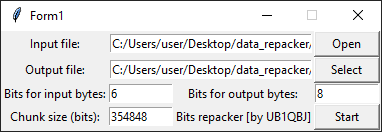
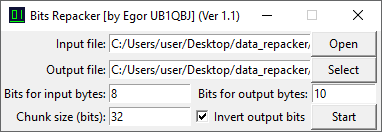
Add bits inverter

diff --git a/main.py b/main.py
@@ -6,8 +6,18 @@ input_file_name=''
 out_file_name=''
 in_lb=int()
 out_lb=int()
+invert_state=int()
+
+def byte_inverter_state():
+    global invert_state
+    if(var1.get()==1):
+        invert_state=1
+    if(var1.get()==0):
+        invert_state=0
+    return
 
 def dn_packer(input_file, out_file, in_lb, out_lb, chunk_size):
+    global invert_state
     data_stream=bitstring.ConstBitStream(input_file)
     while True:
         try:
@@ -17,10 +27,16 @@ def dn_packer(input_file, out_file, in_lb, out_lb, chunk_size):
             break
         chunks = [data[i:i+int(in_lb)] for i in range(0, len(data), int(in_lb))]
         chunks = [str[:-int(int(in_lb)-int(out_lb))] for str in chunks]
-        bitstring.BitArray(bin=''.join(chunks)).tofile(out_file)
+        if(invert_state==1):
+            data=bitstring.BitArray(bin=''.join(chunks))
+            data.invert()
+            data.tofile(out_file)
+        if(invert_state==0):
+            bitstring.BitArray(bin=''.join(chunks)).tofile(out_file)
     return
 
 def up_packer(input_file, out_file, in_lb, out_lb, chunk_size):
+    global invert_state
     data_stream=bitstring.ConstBitStream(input_file)
     while True:
         try:
@@ -30,7 +46,12 @@ def up_packer(input_file, out_file, in_lb, out_lb, chunk_size):
             break
         chunks = [data[i:i+int(in_lb)] for i in range(0, len(data), int(in_lb))]
         chunks = [str1+str('0'*int(int(out_lb)-int(in_lb))) for str1 in chunks]
-        bitstring.BitArray(bin=''.join(chunks)).tofile(out_file)
+        if(invert_state==1):
+            data=bitstring.BitArray(bin=''.join(chunks))
+            data.invert()
+            data.tofile(out_file)
+        if(invert_state==0):
+            bitstring.BitArray(bin=''.join(chunks)).tofile(out_file)
     return
 
 def input_file_dialog():
@@ -65,35 +86,38 @@ def main():
 
 if(__name__ == '__main__'):
     window = Tk()
-    window.title("Form1")
+    var1 = IntVar()
+    icon = PhotoImage(file="icon.png")
+    window.iconphoto(True, icon)
+    window.title("Bits Repacker [by Egor UB1QBJ] (Ver 1.1)")
     window.geometry('380x100')
     window.resizable(width=False, height=False)
     lbl = Label(window, text="Input file:")
-    lbl.grid(column=0, row=0)
+    lbl.grid(column=0, row=0, sticky='e')
     txt1 = Entry(window,width=33)
     txt1.grid(column=1, row=0, columnspan=2)
     btns = Button(window, text="Open", command=input_file_dialog, width=8)
     btns.grid(column=3, row=0)
     lbl1 = Label(window, text="Output file:")
-    lbl1.grid(column=0, row=1)
+    lbl1.grid(column=0, row=1, sticky='e')
     txt2 = Entry(window,width=33)
     txt2.grid(column=1, row=1, columnspan=2)
     btns1 = Button(window, text="Select", command=out_file_dialog, width=8)
     btns1.grid(column=3, row=1)
     lbl2 = Label(window, text="Chunk size (bits):")
-    lbl2.grid(column=0, row=3)
-    txt3 = Entry(window,width=10)
+    lbl2.grid(column=0, row=3, sticky='e')
+    txt3 = Entry(window,width=13)
     txt3.grid(column=1, row=3)
     lbl3 = Label(window, text="Bits for input bytes:")
-    lbl3.grid(column=0, row=2)
-    txt4 = Entry(window,width=10)
+    lbl3.grid(column=0, row=2, sticky='e')
+    txt4 = Entry(window,width=13)
     txt4.grid(column=1, row=2)
     lbl4 = Label(window, text="Bits for output bytes:")
-    lbl4.grid(column=2, row=2)
+    lbl4.grid(column=2, row=2, sticky='e')
     txt5 = Entry(window,width=10)
     txt5.grid(column=3, row=2)
     btns2 = Button(window, text="Start", command=main, width=8)
     btns2.grid(column=3, row=3)
-    lbl5 = Label(window, text="Bits repacker [by UB1QBJ]")
-    lbl5.grid(column=2, row=3)
+    c1 = Checkbutton(window, text='Invert output bits',variable=var1, onvalue=1, offvalue=0, command=byte_inverter_state)
+    c1.grid(column=2, row=3)
     window.mainloop()
